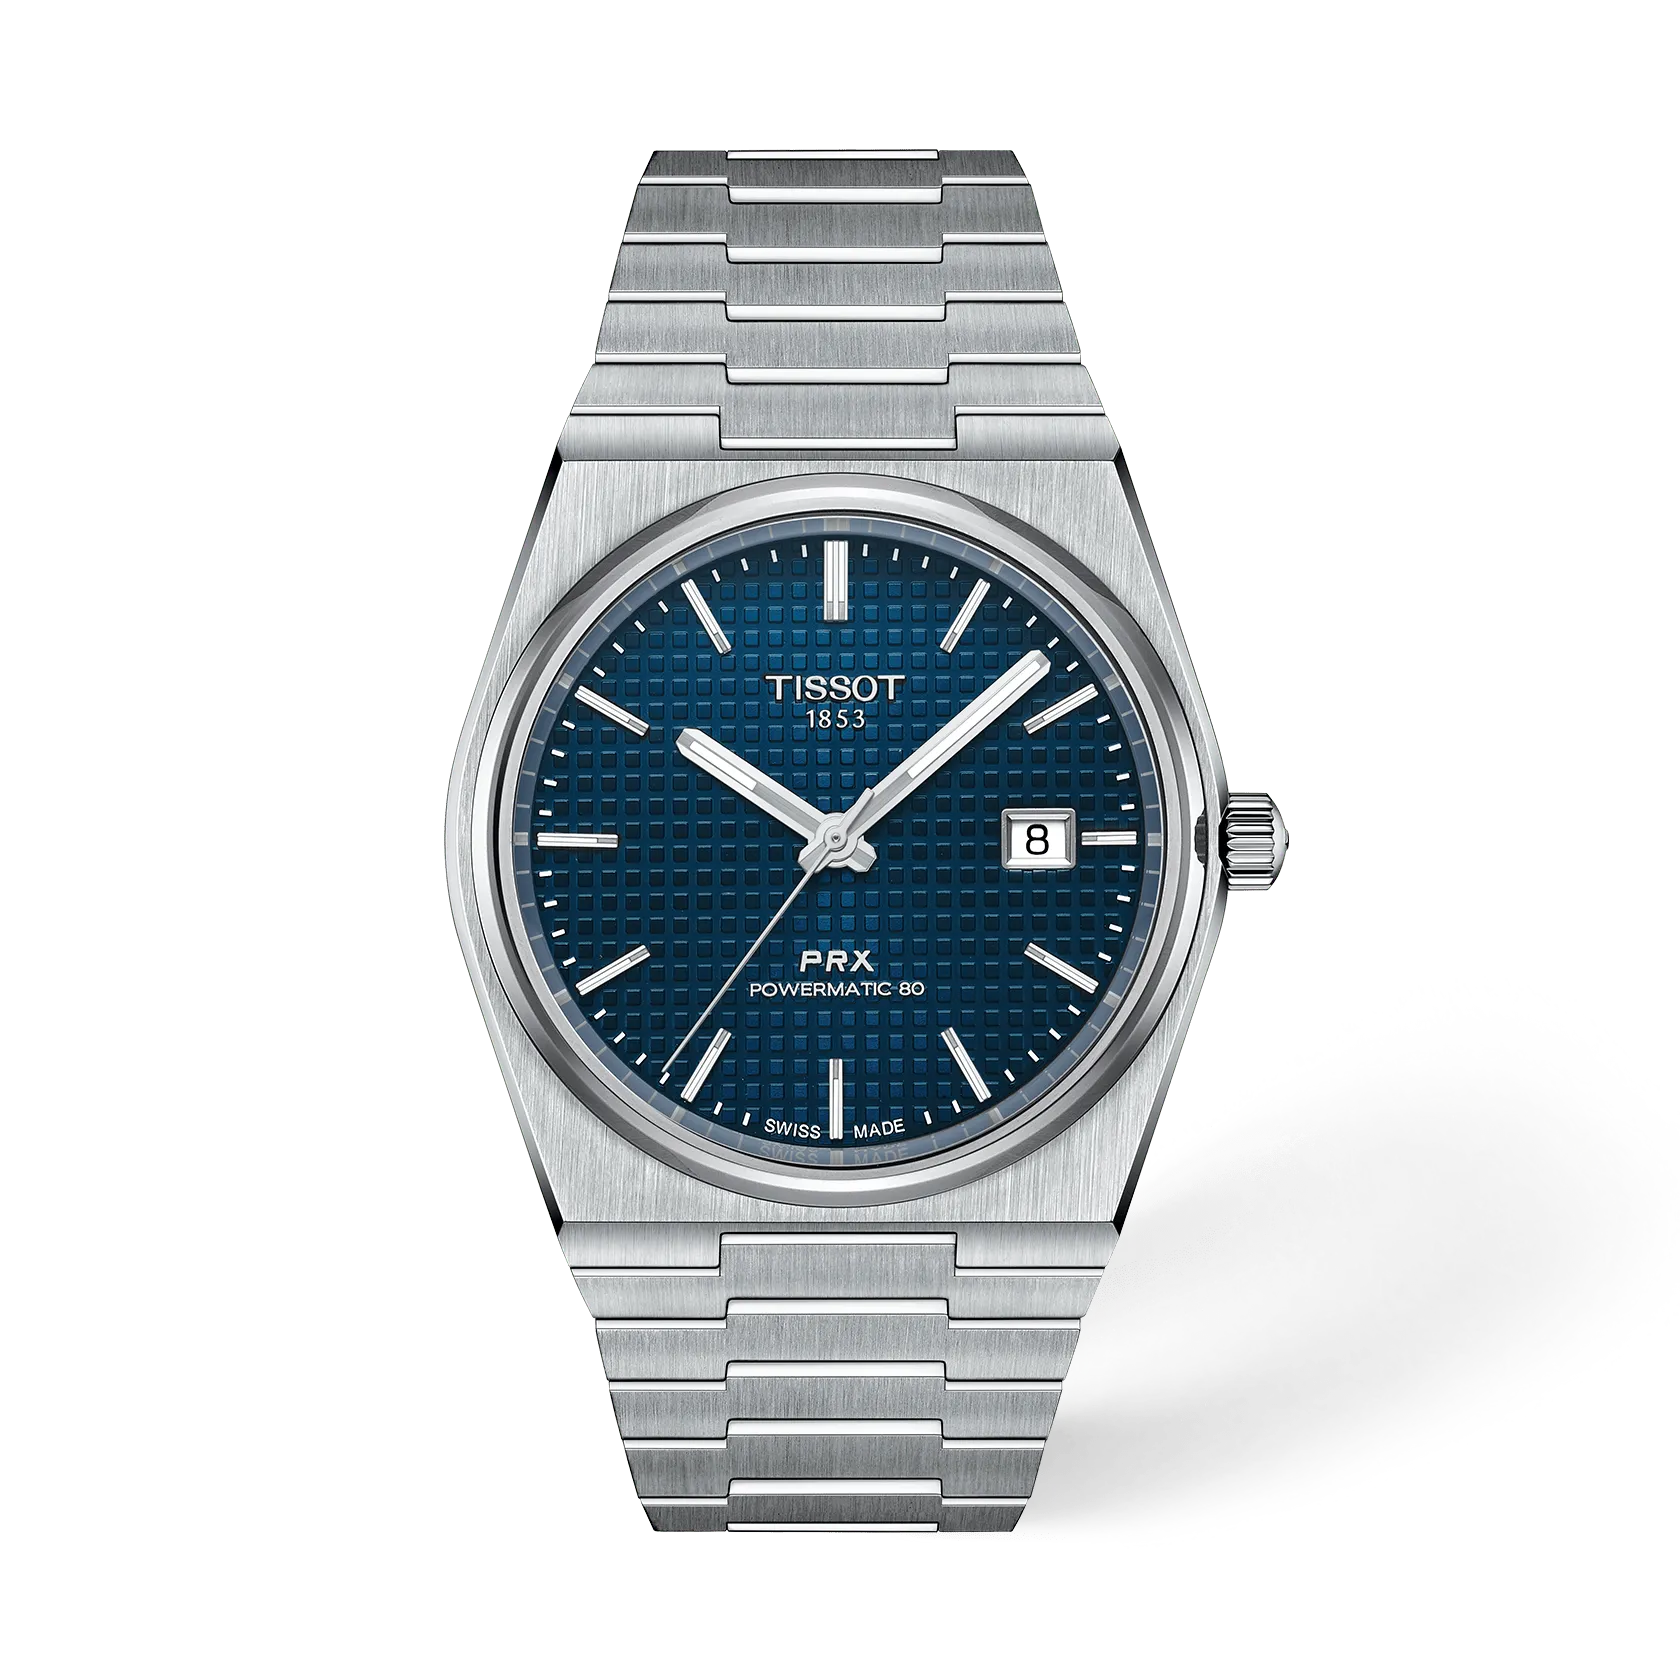
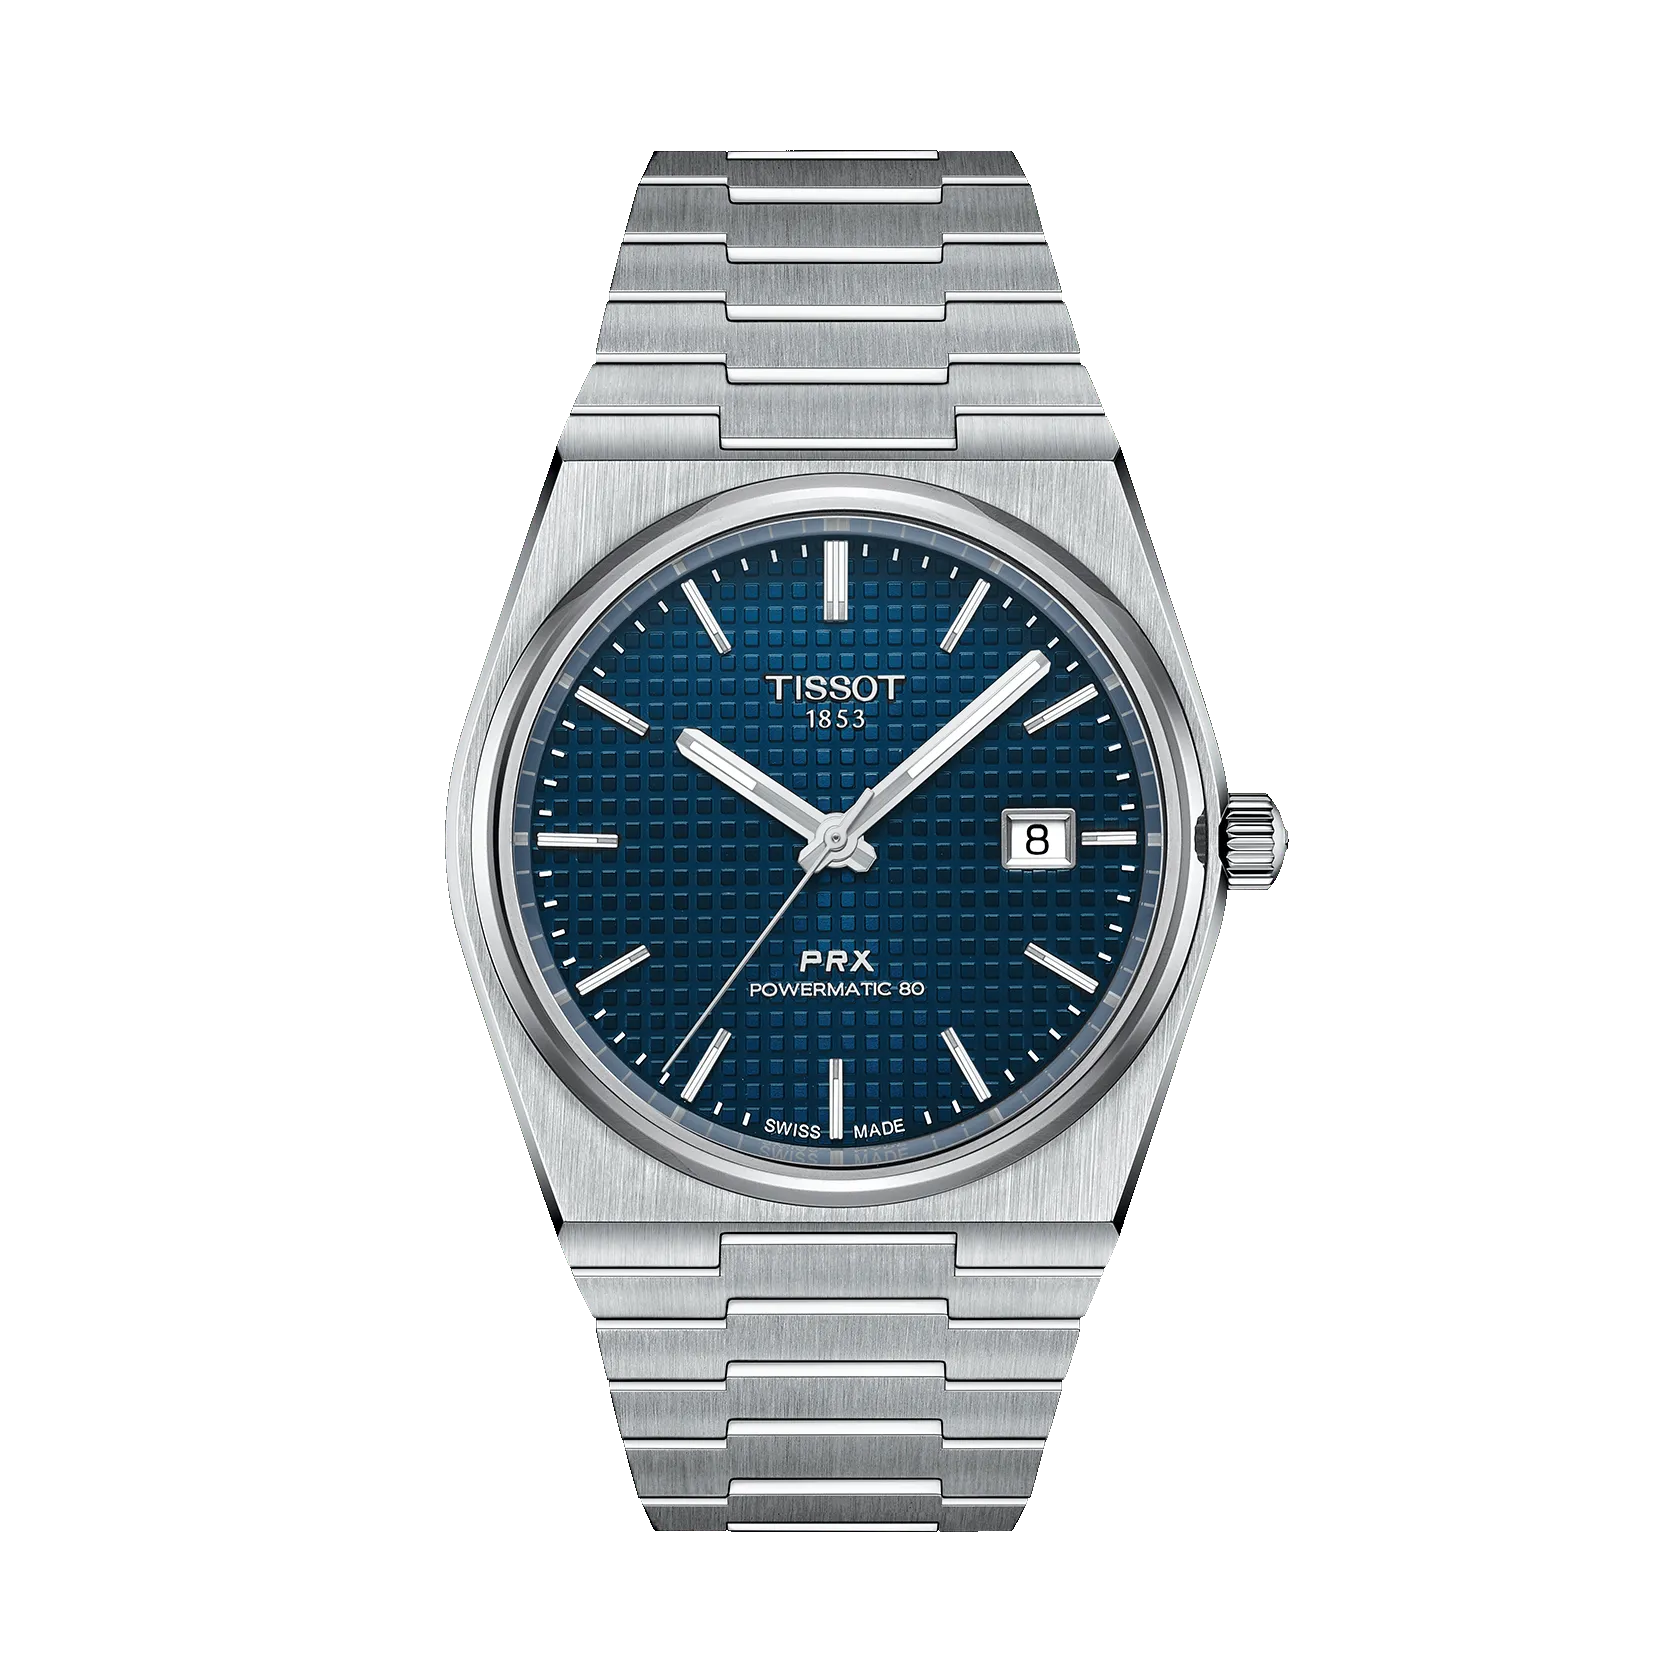
Remove pale photo shadows and hold original watch photos for six seconds

Changed region(s): [[0.5881, 0.8357, 0.7429, 0.8976]]

diff --git a/frontend/components/watch3d/Watch3D.tsx b/frontend/components/watch3d/Watch3D.tsx
@@ -3,7 +3,7 @@
 import Image from 'next/image';
 import { useEffect, useMemo, useRef, useState } from 'react';
 import { configForWatch, type WatchVisualSource } from './config';
-import { PRELOAD_MARGIN, type WatchControls } from './settings';
+import { PHOTO_SECONDS, PRELOAD_MARGIN, type WatchControls } from './settings';
 import type { mountWatch } from './runtime';
 import styles from './Watch3D.module.css';
 
@@ -20,7 +20,7 @@ export default function Watch3D({ watch, fallbackSrc, alt, index, priority = fal
   // A revision bypasses previously optimized copies made from the old lossy
   // catalogue images. Keep the API's image field and model data unchanged.
   const photoSrc = fallbackSrc?.startsWith('/catalogue/')
-    ? `${fallbackSrc}${fallbackSrc.includes('?') ? '&' : '?'}v=original-hq-20261028` : fallbackSrc;
+    ? `${fallbackSrc}${fallbackSrc.includes('?') ? '&' : '?'}v=clean-cutout-20261029` : fallbackSrc;
   const visibleRef = useRef(visible);
   visibleRef.current = visible;
   const { id, name, slug, specs } = watch;
@@ -72,7 +72,7 @@ export default function Watch3D({ watch, fallbackSrc, alt, index, priority = fal
   useEffect(() => { handle.current?.setActive(visible); }, [visible, near]);
   const photoVisible = photoReady && !posterError && (failed || (ready && showPhoto));
   return <div ref={root} translate="no" className={`notranslate ${styles.viewport} ${ready ? styles.ready : ''} ${photoVisible ? styles.photoVisible : ''}`}
-    role="img" aria-label={`${alt} — الساعة بتلف تلقائيًا، وبعد لفة كاملة بتظهر صورتها الحقيقية 3 ثواني.`} aria-busy={!ready && !failed}
+    role="img" aria-label={`${alt} — الساعة بتلف تلقائيًا، وبعد لفة كاملة بتظهر صورتها الحقيقية ${PHOTO_SECONDS} ثواني.`} aria-busy={!ready && !failed}
     data-presentation={photoVisible ? (failed ? 'fallback' : 'photo') : ready ? 'model' : failed ? 'unavailable' : 'loading'}>
     {!ready && !failed && <span className={`${styles.loading} ${visible ? styles.loadingActive : ''}`} aria-hidden="true"><i /></span>}
     {(near || failed) && photoSrc && !posterError && <div className={styles.poster} aria-hidden="true"><Image src={photoSrc} alt="" fill quality={95} sizes="(min-width: 1280px) 40vw, (min-width: 768px) 50vw, 100vw" priority={priority} loading={priority ? undefined : 'lazy'} draggable={false}

diff --git a/frontend/components/watch3d/settings.ts b/frontend/components/watch3d/settings.ts
@@ -1,5 +1,5 @@
 export const ROTATION_SECONDS = 8;
-export const PHOTO_SECONDS = 3;
+export const PHOTO_SECONDS = 6;
 export const TILT_DEG = 17;
 export const FPS_CAP = 60;
 export const MAX_DPR = 2;

diff --git a/docs/watch3d.md b/docs/watch3d.md
@@ -6,7 +6,7 @@ watch gets a deterministic configuration from its existing case, dial and
 strap specifications. Missing specifications use neutral defaults.
 A neutral loading indicator appears until the first 3D frame is ready. Each
 visible watch completes an eight-second 360-degree turn, crossfades to its real
-product photograph for three seconds, then repeats. The photograph is preloaded
+product photograph for six seconds, then repeats. The photograph is preloaded
 near the viewport and stays hidden during initial loading and the first turn.
 No database changes, external models or new dependencies are required.
 
@@ -19,7 +19,7 @@ No database changes, external models or new dependencies are required.
   hands, curved straps, instanced bracelet links and disposal.
 - `runtime.ts`: one shared WebGL renderer, one animation loop, generated
   RoomEnvironment/PMREM lighting, model pooling and lifecycle diagnostics.
-- `settings.ts`: eight-second rotation, three-second photo hold, tilt, frame cap, DPR and preload settings.
+- `settings.ts`: eight-second rotation, six-second photo hold, tilt, frame cap, DPR and preload settings.
 - `presentation.ts`: deterministic turn/photo timing and late-image handling.
 - `Watch3D.module.css`: reserved image area, visible-only loading animation and 3D fade-in.
 - Existing card, comparison, chat, homepage, staff pick and detail components
@@ -40,7 +40,7 @@ Hidden tabs stop the animation loop. Rendering is capped at 60 fps, reduced to
 30 fps on modest devices or when more than four cards are visible. DPR is at
 most 2 (1.5 on modest devices). There are no shadow maps or external HDR files.
 The shared visible-time clock controls both stages. WebGL drawing is skipped
-during the photograph hold. Hover, pointer press, dragging and arrow keys do
+during the six-second photograph hold. Hover, pointer press, dragging and arrow keys do
 not pause or control the viewer. Parent product links still open details.
 Reduced motion keeps a static model. A missing/failed photo leaves automatic
 3D turns running; missing WebGL shows the photograph instead.
@@ -50,9 +50,9 @@ Reduced motion keeps a static model. A missing/failed photo leaves automatic
 All 12 catalogue assets were downloaded again from the manufacturer image URLs
 recorded in `data/catalogue.json`. The actual models are used, not AI images or
 lookalike watches. PNG originals were encoded as lossless WebP at their original
-dimensions, preserving alpha. Pixel checks confirm all visible RGB values and
-alpha values match the downloaded originals; RGB values behind fully transparent
-pixels may be cleared by WebP encoding.
+dimensions, preserving alpha at import. Pixel checks confirmed visible RGB and
+alpha matched the downloaded originals before the background cleanup described
+below. RGB values behind fully transparent pixels may be cleared by WebP encoding.
 
 - Tissot: 1680 × 1680, four models.
 - Grand Seiko: 1102 × 1102, four models.
@@ -60,7 +60,7 @@ pixels may be cleared by WebP encoding.
 
 The UI requests responsive, retina-sized Next.js images at quality 95. A source
 revision in the photo URL bypasses previously cached conversions of the older
-lossy files. Original files are larger (about 10.3 MB total); only near-viewport
+lossy files. Current lossless assets are about 9.8 MB total; only near-viewport
 photos are mounted, and responsive images avoid sending every original in full
 to a phone. There is no enlargement of the source assets or blur filter.
 
@@ -68,6 +68,33 @@ Source product pages: [Tissot PRX](https://www.tissotwatches.com/en-us/T13741011
 [Grand Seiko SBGW301](https://www.grand-seiko.com/us-en/collections/SBGW301G),
 [Seiko SRPE93](https://seikousa.com/products/srpe93). The full per-model source
 and image URL inventory remains in the catalogue manifest.
+
+### White-shadow cleanup, 2026-10-29
+
+Reviewing all 12 images over the actual dark card background identified a pale
+cast shadow in all four Tissot source assets. Those backgrounds were cleaned
+with the built-in **imagegen** tool (background-extraction mode, transparent
+output). Its output was used as an alpha-matte proposal, not as replacement
+watch artwork. Native 1680 × 1680 manufacturer RGB pixels were retained in the
+final lossless WebP assets, with the original opaque watch pixels protected.
+Comparison after encoding found zero changed opaque product pixels and zero
+changed RGB values in retained visible pixels. Only exterior alpha changed.
+
+Final workspace assets, relative to the repository root:
+
+- `frontend/public/catalogue/tissot-prx-powermatic-80-blue-t1374071104100.webp`
+- `frontend/public/catalogue/tissot-prx-quartz-blue-t1374101104100.webp`
+- `frontend/public/catalogue/tissot-gentleman-powermatic-80-silicium-blue-t1274071104100.webp`
+- `frontend/public/catalogue/tissot-seastar-1000-powermatic-80-blue-t1204071104103.webp`
+
+The photo URL revision is `clean-cutout-20261029`, so cached older shadows are
+not reused. The six-second duration is shared by rendering and accessible copy.
+
+Prompt set: the following prompt was used once per reference, substituting
+`T1374071104100`, `T1374101104100`, `T1274071104100`, and `T1204071104103`.
+Inputs were manufacturer photos composited over the card colour for inspection.
+
+> Use case: background-extraction. Edit target: the attached real Tissot {reference} product photograph. Remove ONLY the entire dark brown backdrop AND the pale white-grey shadow/blob cast toward the lower right of the bracelet. Deliver a clean fully transparent PNG containing only the original complete watch. Keep the exact watch, full bracelet, crown, dial, hands, date 8, all logos and dial lettering, materials and colours. Do not invent, redraw, simplify or retouch watch details. Preserve its scale, proportions and precise centered placement on the same square canvas, with the same margins; no zoom or crop, no added shadow, glow, white fringe, checkerboard or background. High resolution, preserve the input's native 1680x1680 composition (output 2048x2048 if needed). This is for an accurate product catalogue; only the alpha/background should change.
 
 ## Add or refine a watch
 
@@ -120,10 +147,13 @@ The cold 3D payload is downloaded only when a watch approaches the viewport,
 and may already be cached if another 3D feature loaded Three.js first.
 
 The automatic photo cycle also has explicit boundary checks: photo begins after
-the full turn, holds until 11 seconds of visible time, then starts the next turn.
+the full turn, holds until 14 seconds of visible time, then starts the next turn.
 Late/missing images skip a photo slot instead of exposing a blank area.
 Browser checks at 390 px (DPR 2) and 1280 px requested quality-95 images at
 828 px and 640 px respectively. Both exceed the displayed image's retina needs.
-The measured photo holds were 3000 ms and 2999 ms with a pointer held over the
-viewer. Reduced motion, failed-photo continuation, no-WebGL photo fallback and
+The original three-second version measured 3000 ms and 2999 ms with a pointer held over the
+viewer. The current hold is six seconds. Reduced motion, failed-photo continuation, no-WebGL photo fallback and
 clicking a photo to open product details also pass without browser exceptions.
+The six-second update measured 6023 ms at 390 px and 6000 ms at 1280 px, with
+hover/held-pointer input throughout. The cleaned PRX photo and product-link
+navigation passed on both viewports, with no browser exceptions.
